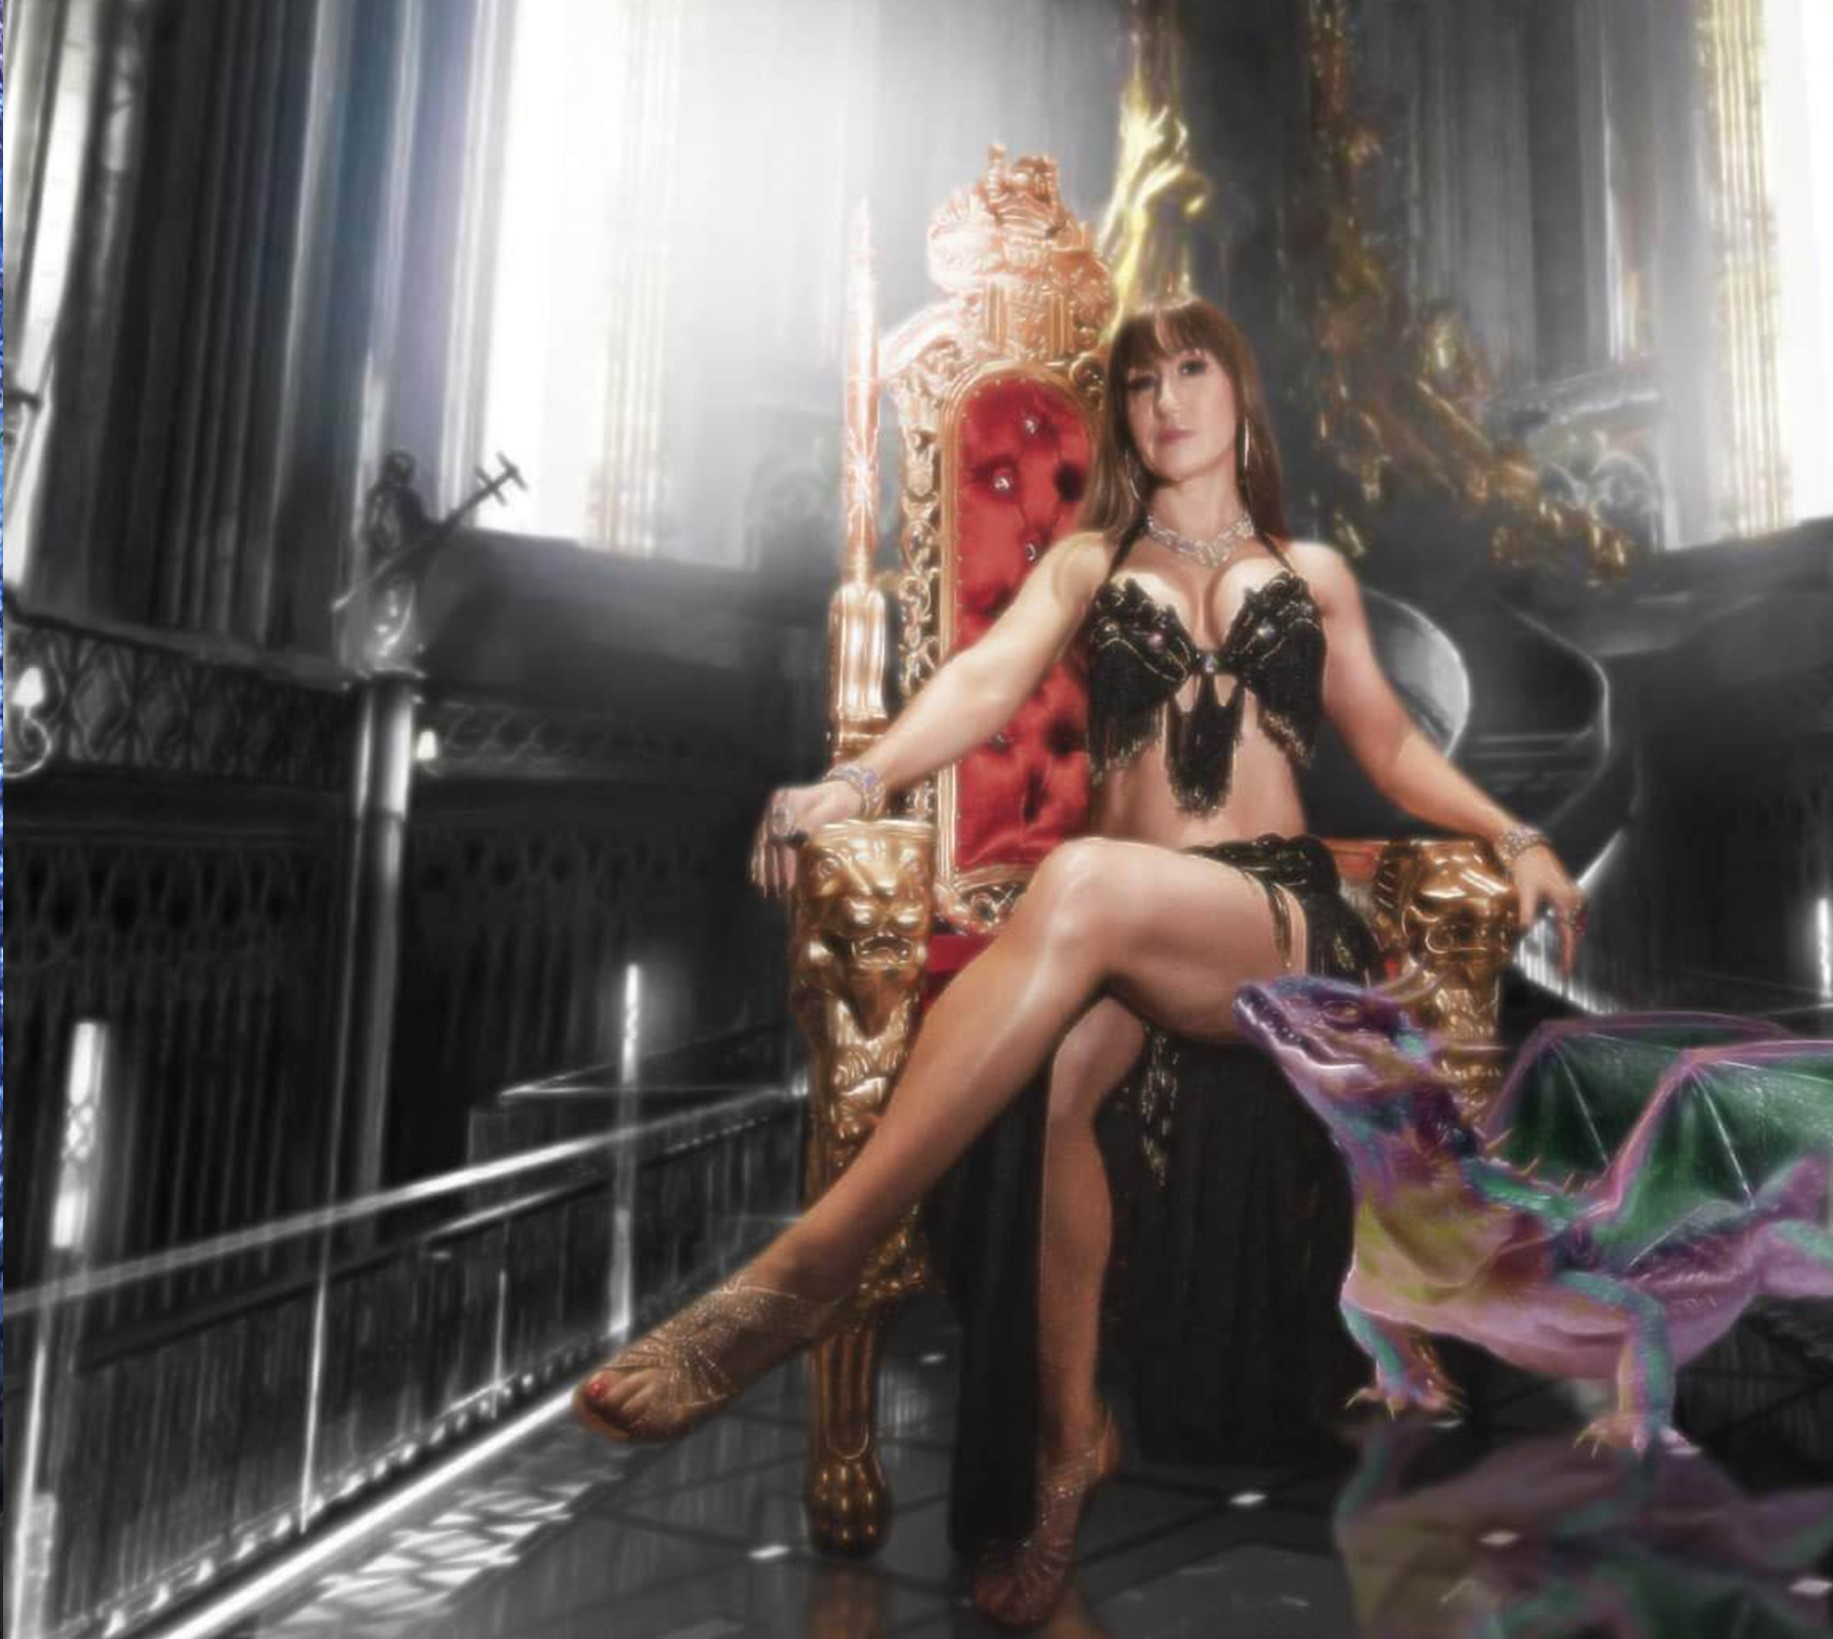
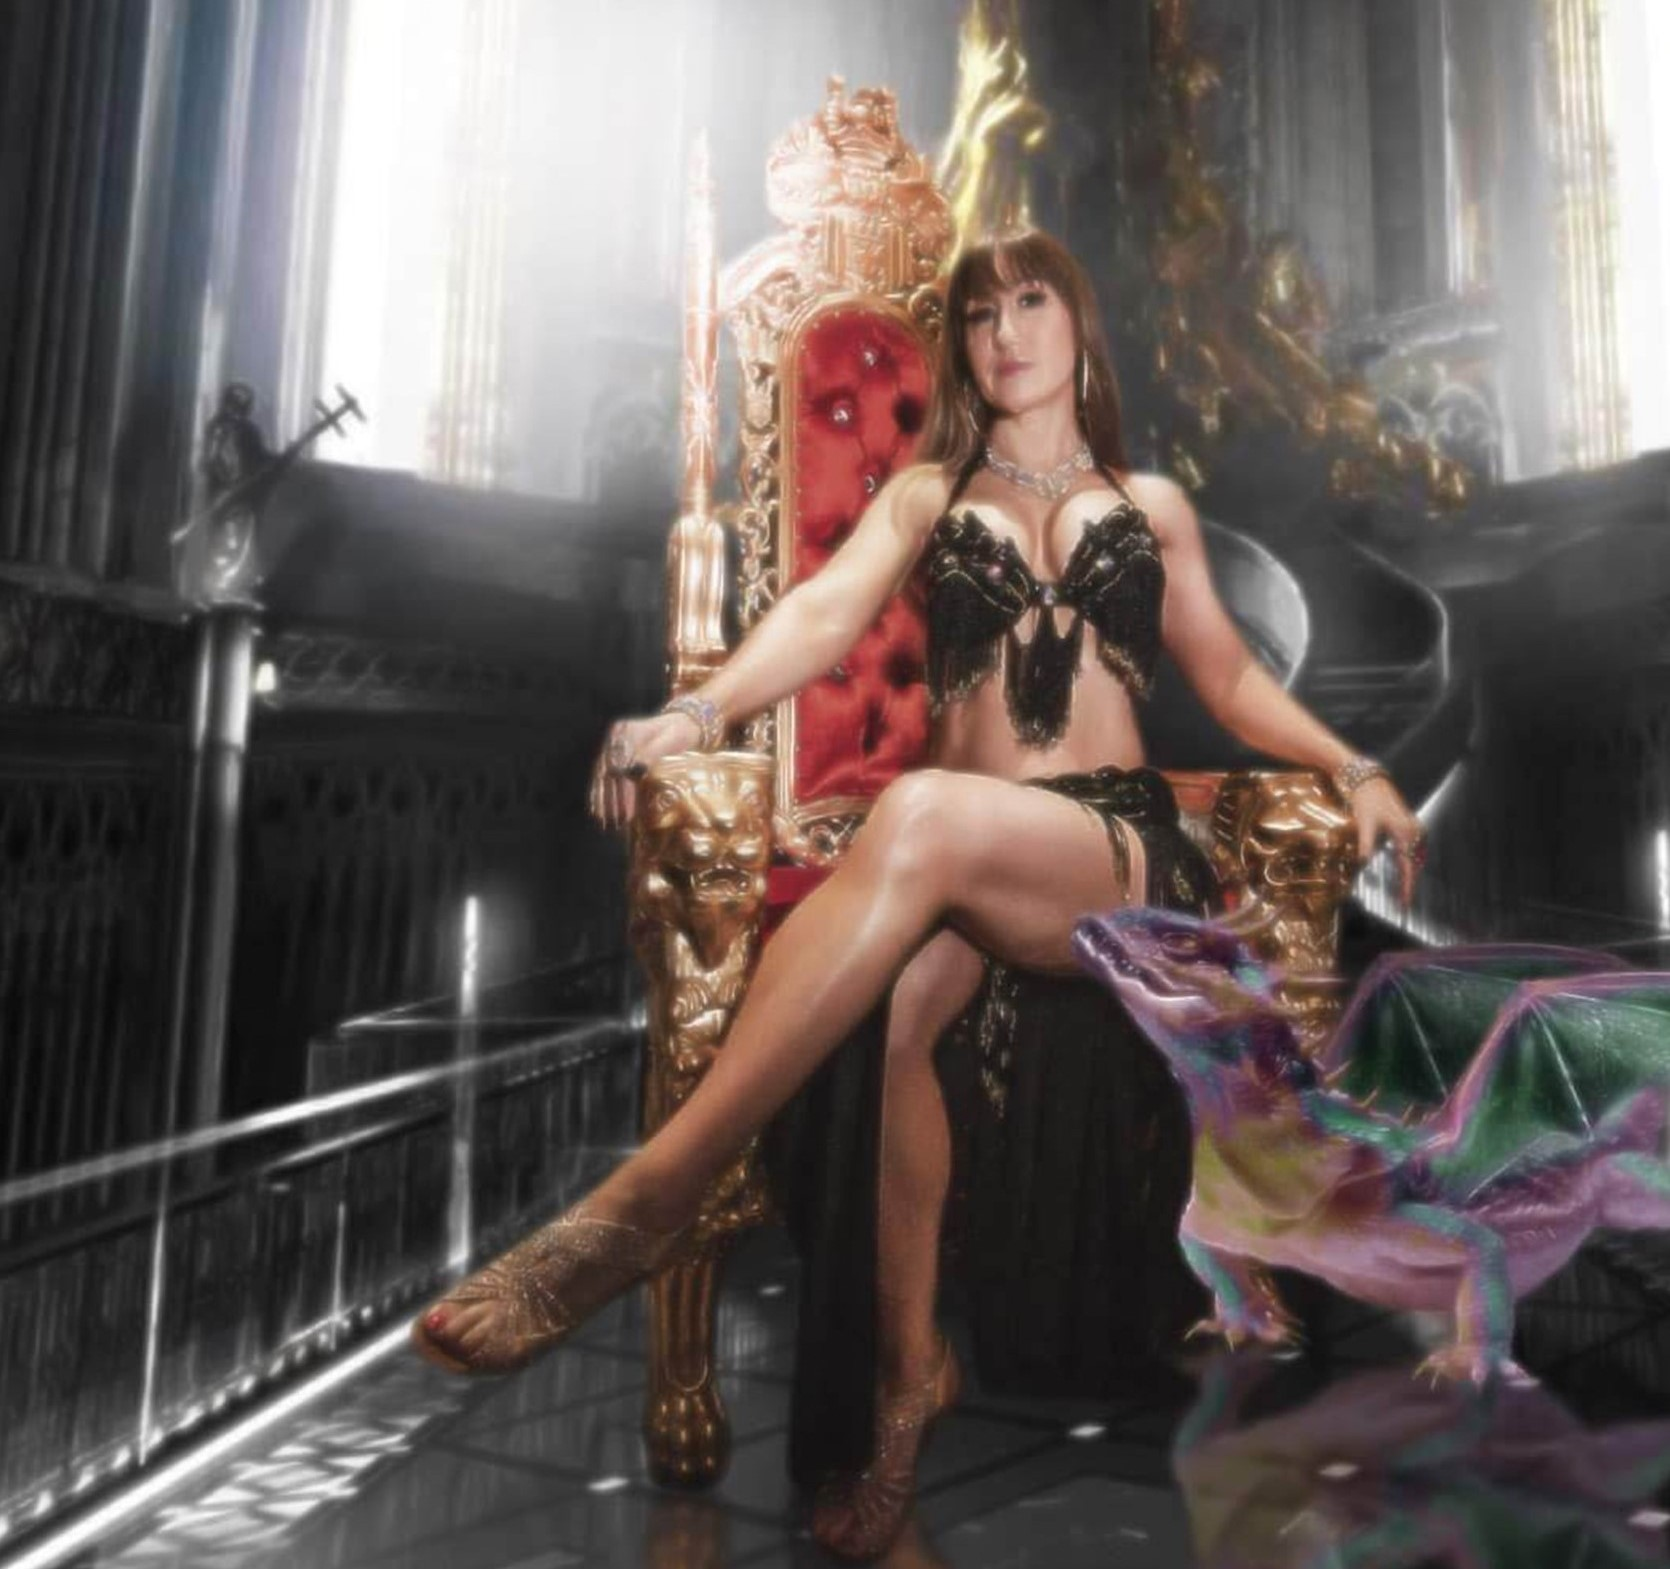
Restored Heather-Hero-2

diff --git a/index.html b/index.html
@@ -46,7 +46,7 @@
 
       <div class="profile">
         <img src="assets/img/heather-avatar.jpg" alt="" class="img-fluid rounded-circle">
-        <h1 class="text-light" style="font-size: 20px;"><a href="index.html">Heather Sarafina Hunt</a></h1>
+        <h1 class="text-light" style="font-size: 20px;"><a href="index.html">Heather "Sarafina" Hunt</a></h1>
         <div class="social-links mt-3 text-center">
           <!-- <a href="#" class="twitter"><i class="bx bxl-twitter"></i></a> -->
           <a href="#" class="facebook"><i class="bx bxl-facebook"></i></a>
@@ -72,7 +72,7 @@
   <!-- ======= Hero Section ======= -->
   <section id="hero" class="d-flex flex-column justify-content-center align-items-center">
     <div class="hero-container" data-aos="fade-in">
-      <h1>Heather Sarafina Hunt</h1>
+      <h1>Heather "Sarafina" Hunt</h1>
       <p><span class="typed" data-typed-items="Bellydancer, Fitness, Cosplay, Model"></span></p>
     </div>
   </section><!-- End Hero -->

diff --git a/assets/css/style.css b/assets/css/style.css
@@ -228,7 +228,7 @@ h6 {
 #hero {
   width: 100%;
   height: 100vh;
-  background: url("../img/Heather-Hero-3.jpg") top center;
+  background: url("../img/Heather-Hero-2.jpg") center center;
   background-size: cover;
 }
 
